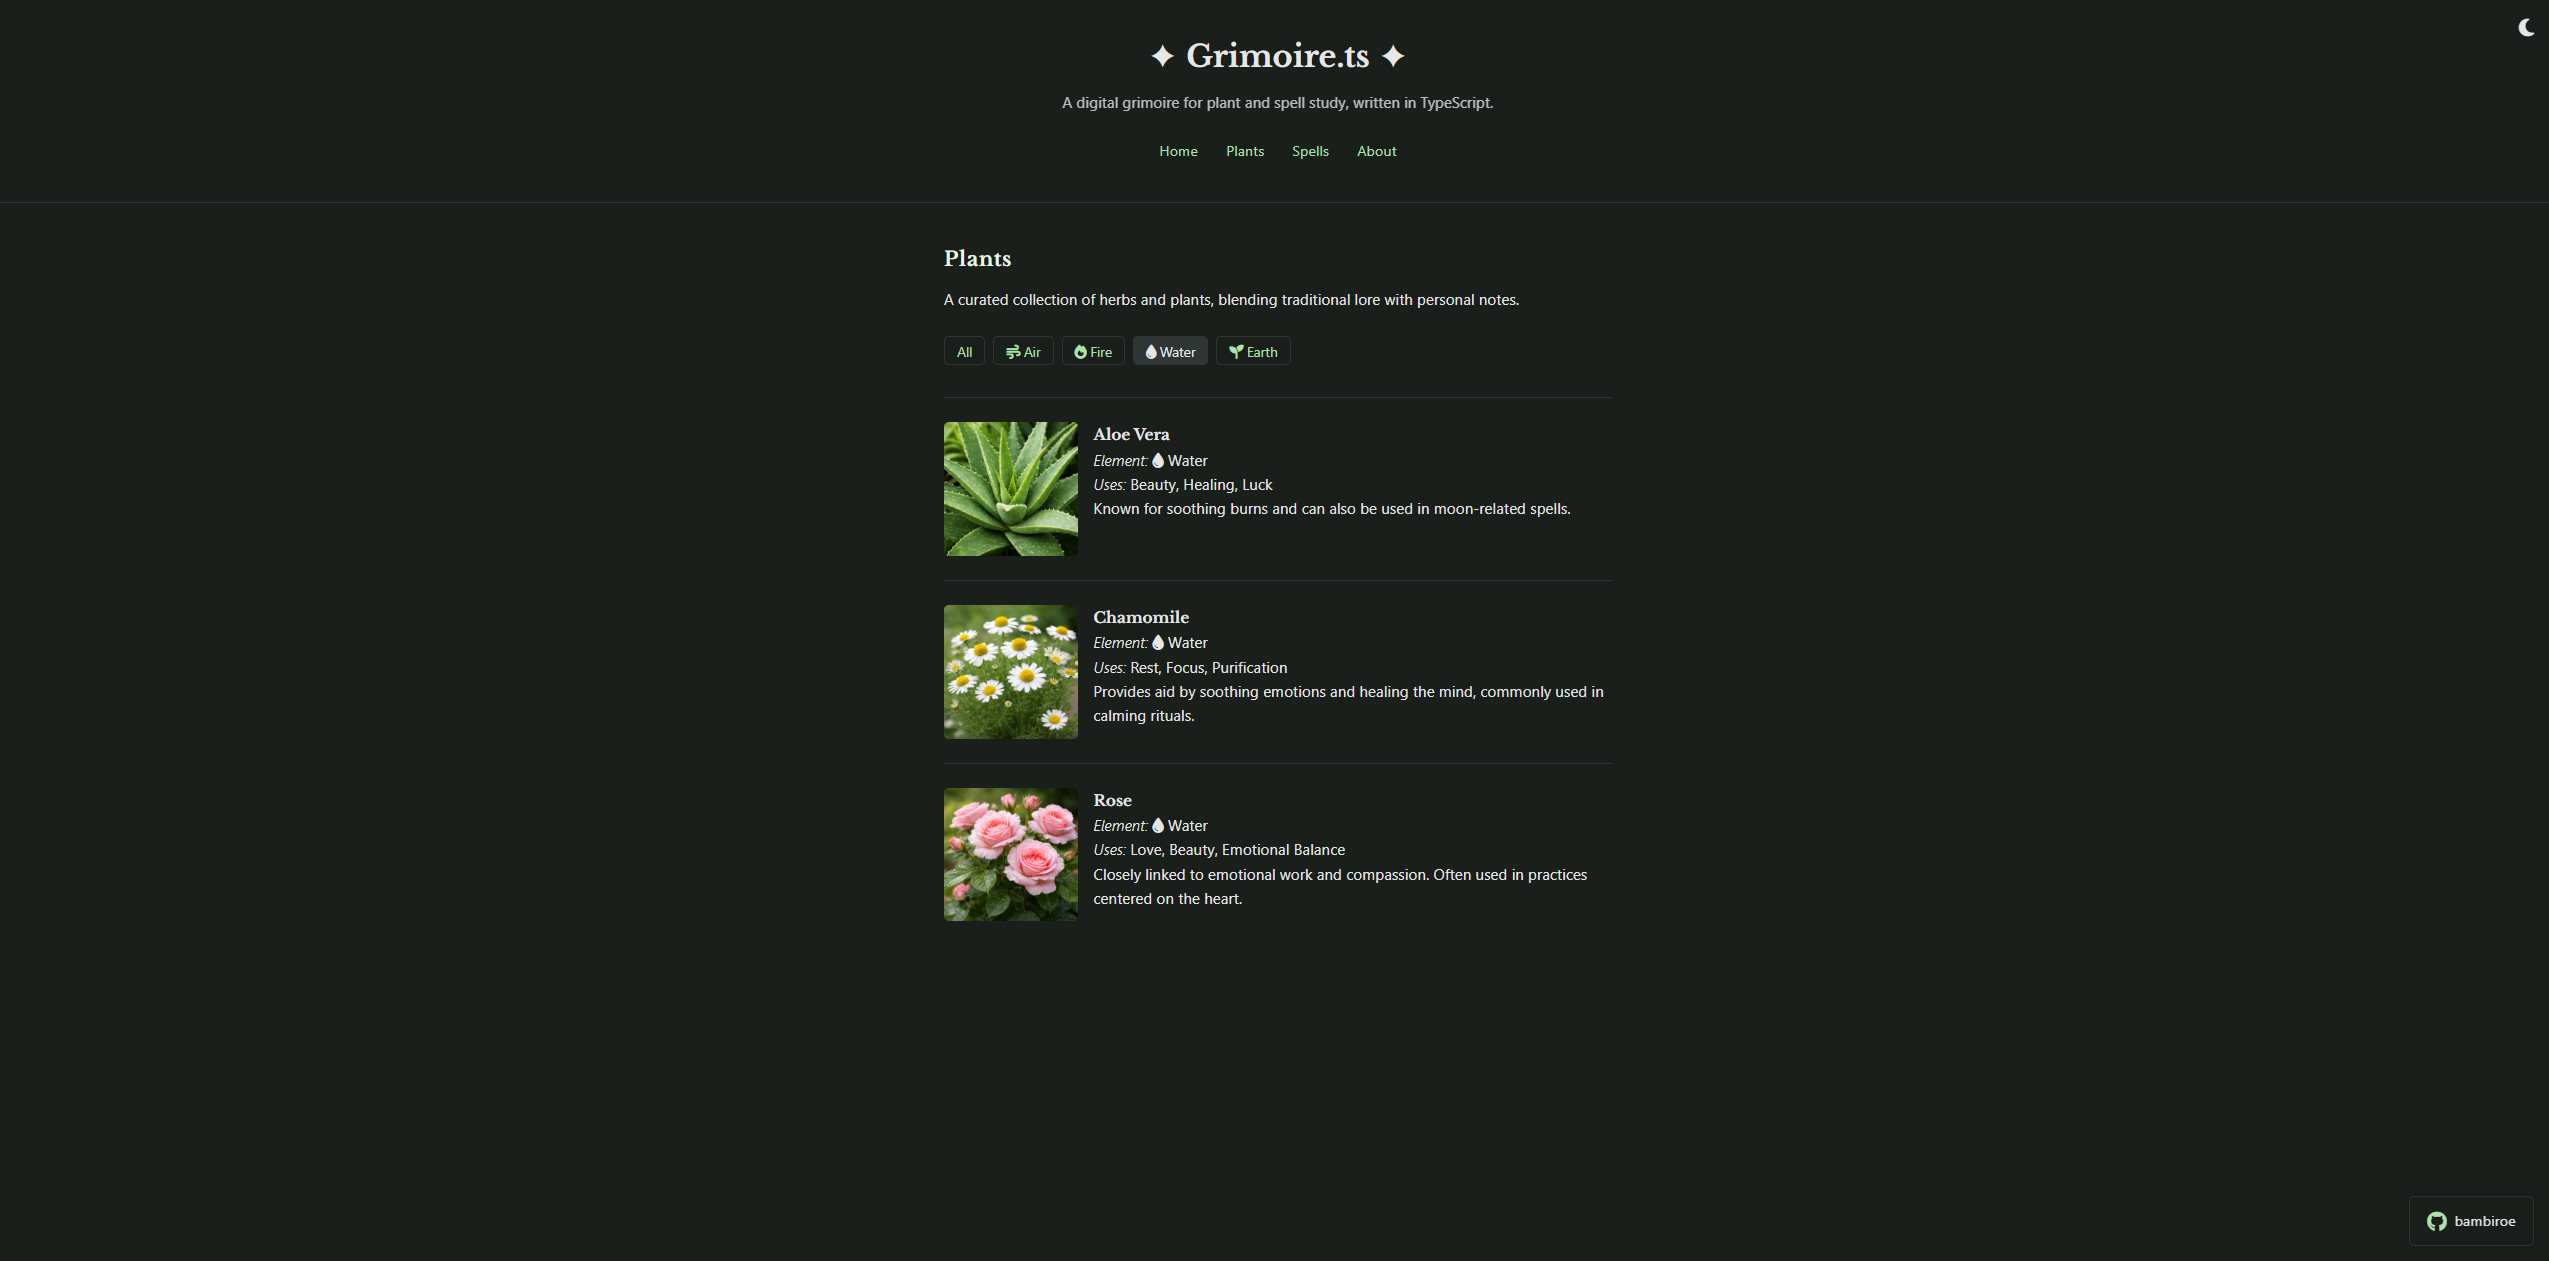
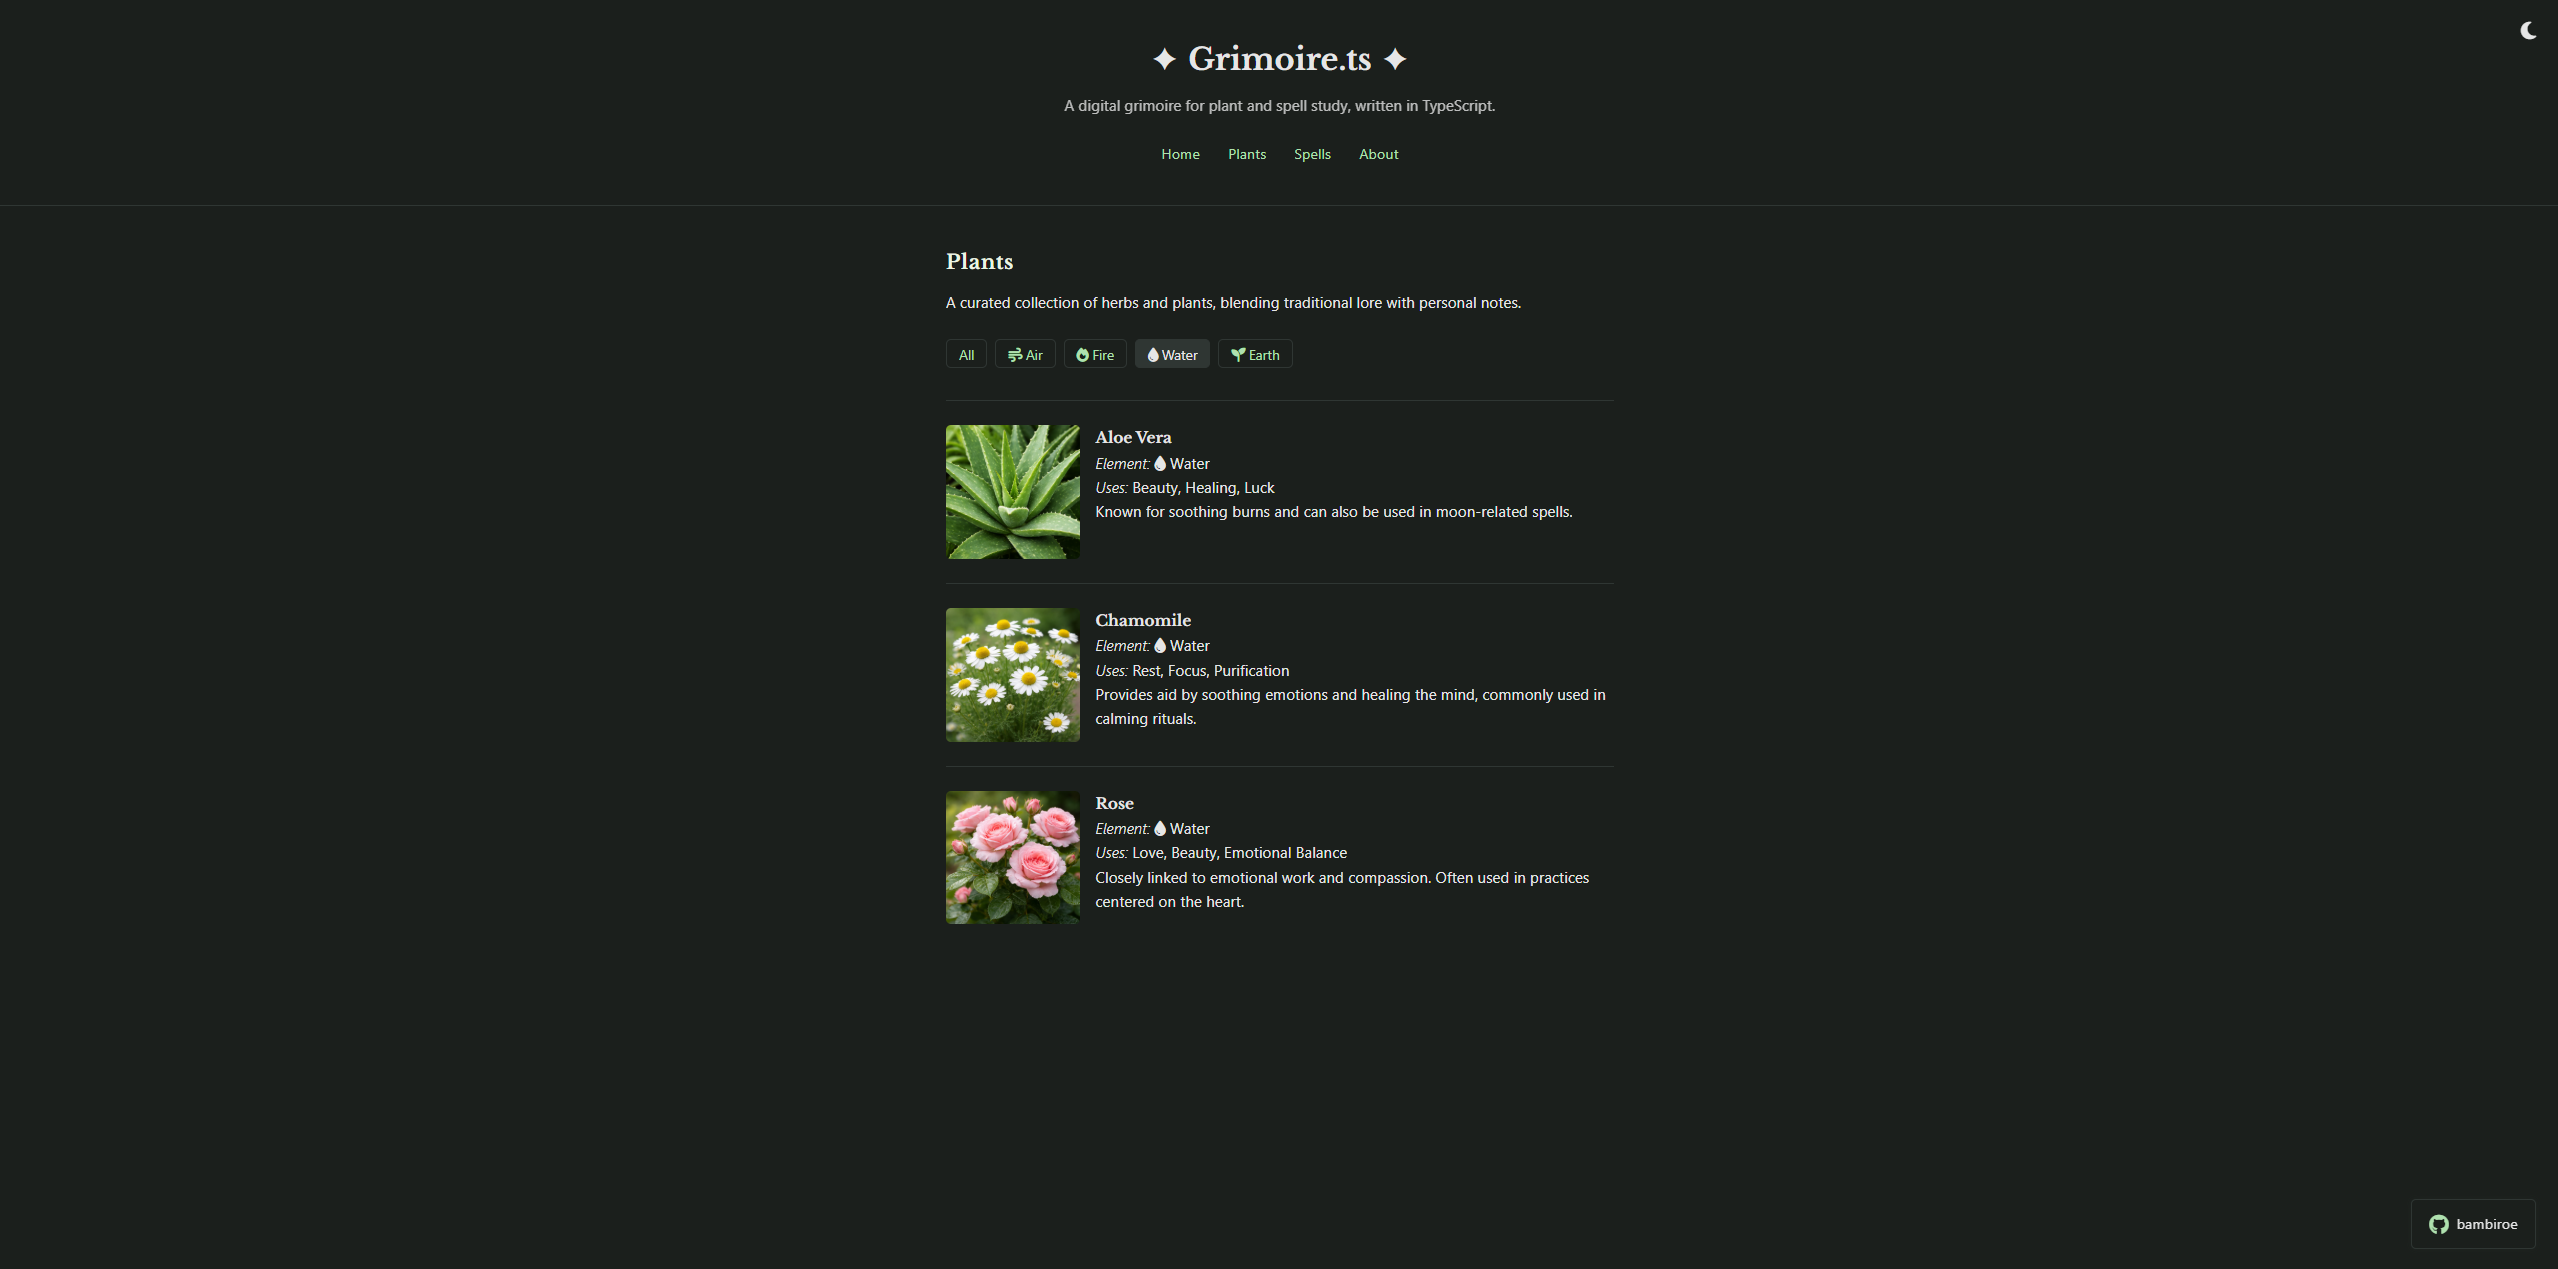
[014] Refine welcome
- Updated the Welcome section.
- Updated site background.

diff --git a/css/style.css b/css/style.css
@@ -4,7 +4,7 @@
 
 :root, [data-theme='dark'] {
   --bg: #1b1f1c;
-  --bg2: #252e28;
+  --bg2: #1f2721;
   --brdr: #2f3633;
   --shdw: #2f36333d;
   --txt: #e6e6e6;
@@ -13,9 +13,9 @@
 }
 
 [data-theme='light'] {
-  --bg: #fcf5e5;
-  --bg2: #dbd5c5;
-  --brdr: #dfd5be;
+  --bg: #dfd6c0;
+  --bg2: #ebe4d4;
+  --brdr: #d4caae;
   --shdw: #dfd5be3d;
   --txt: #1b1f1c;
   --lnk: #2e8b57;
@@ -29,7 +29,7 @@
 }
 
 body {
-  /* background: radial-gradient(circle at center, var(--bg2), var(--bg)); */
+  /* background-image: linear-gradient(to right, var(--bg2), var(--bg)); */
   background-color: var(--bg);
   font-family: system-ui, -apple-system, BlinkMacSystemFont, sans-serif;
   color: var(--txt);

diff --git a/index.html b/index.html
@@ -36,11 +36,18 @@
       <!--- Home Page --->
       <section id="home" class="page active">
         <h2>Welcome</h2>
+      
         <p>
           This grimoire is a quiet place for collected knowledge: 
           plants, intentions, and small rituals, written with care.
         </p>
-      </section>
+        <br />
+        <p>
+          Browse the grimoire at your own pace. 
+          Explore plants by their elemental associations, or read through spells 
+          as moments of reflection rather than instruction.
+        </p>
+      </section>      
       <!--- Plants Page --->
       <section id="plants" class="page">
         <h2>Plants</h2>
